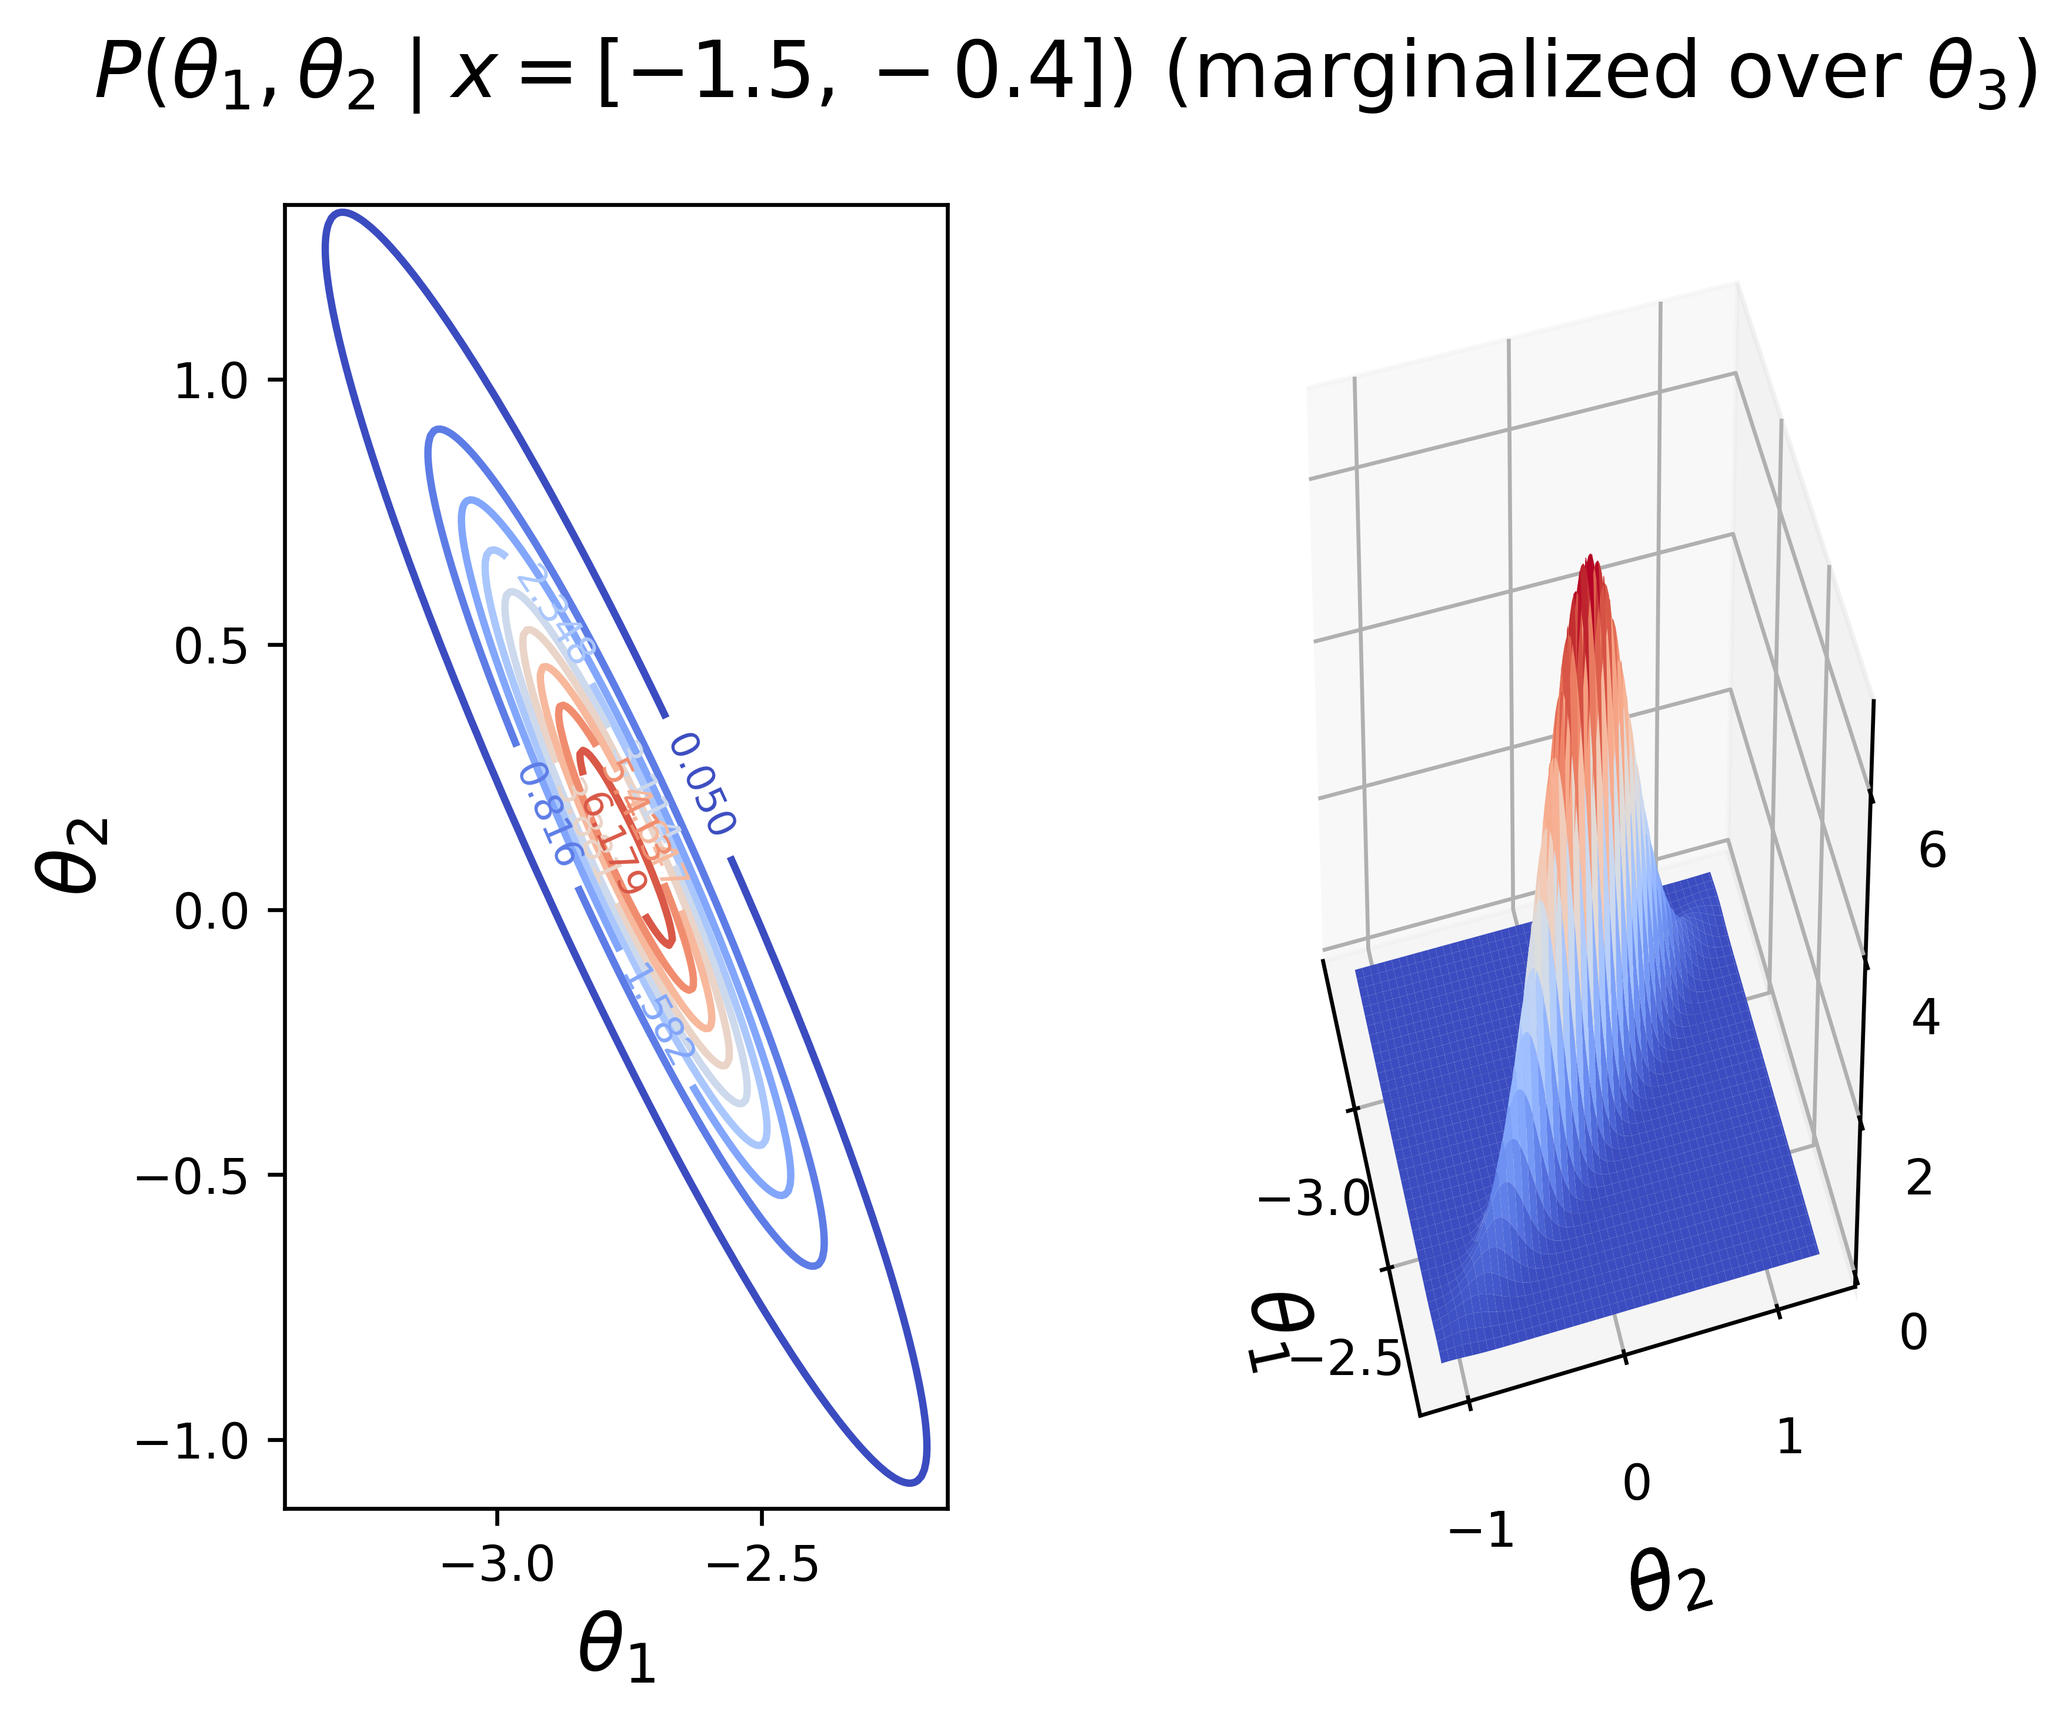
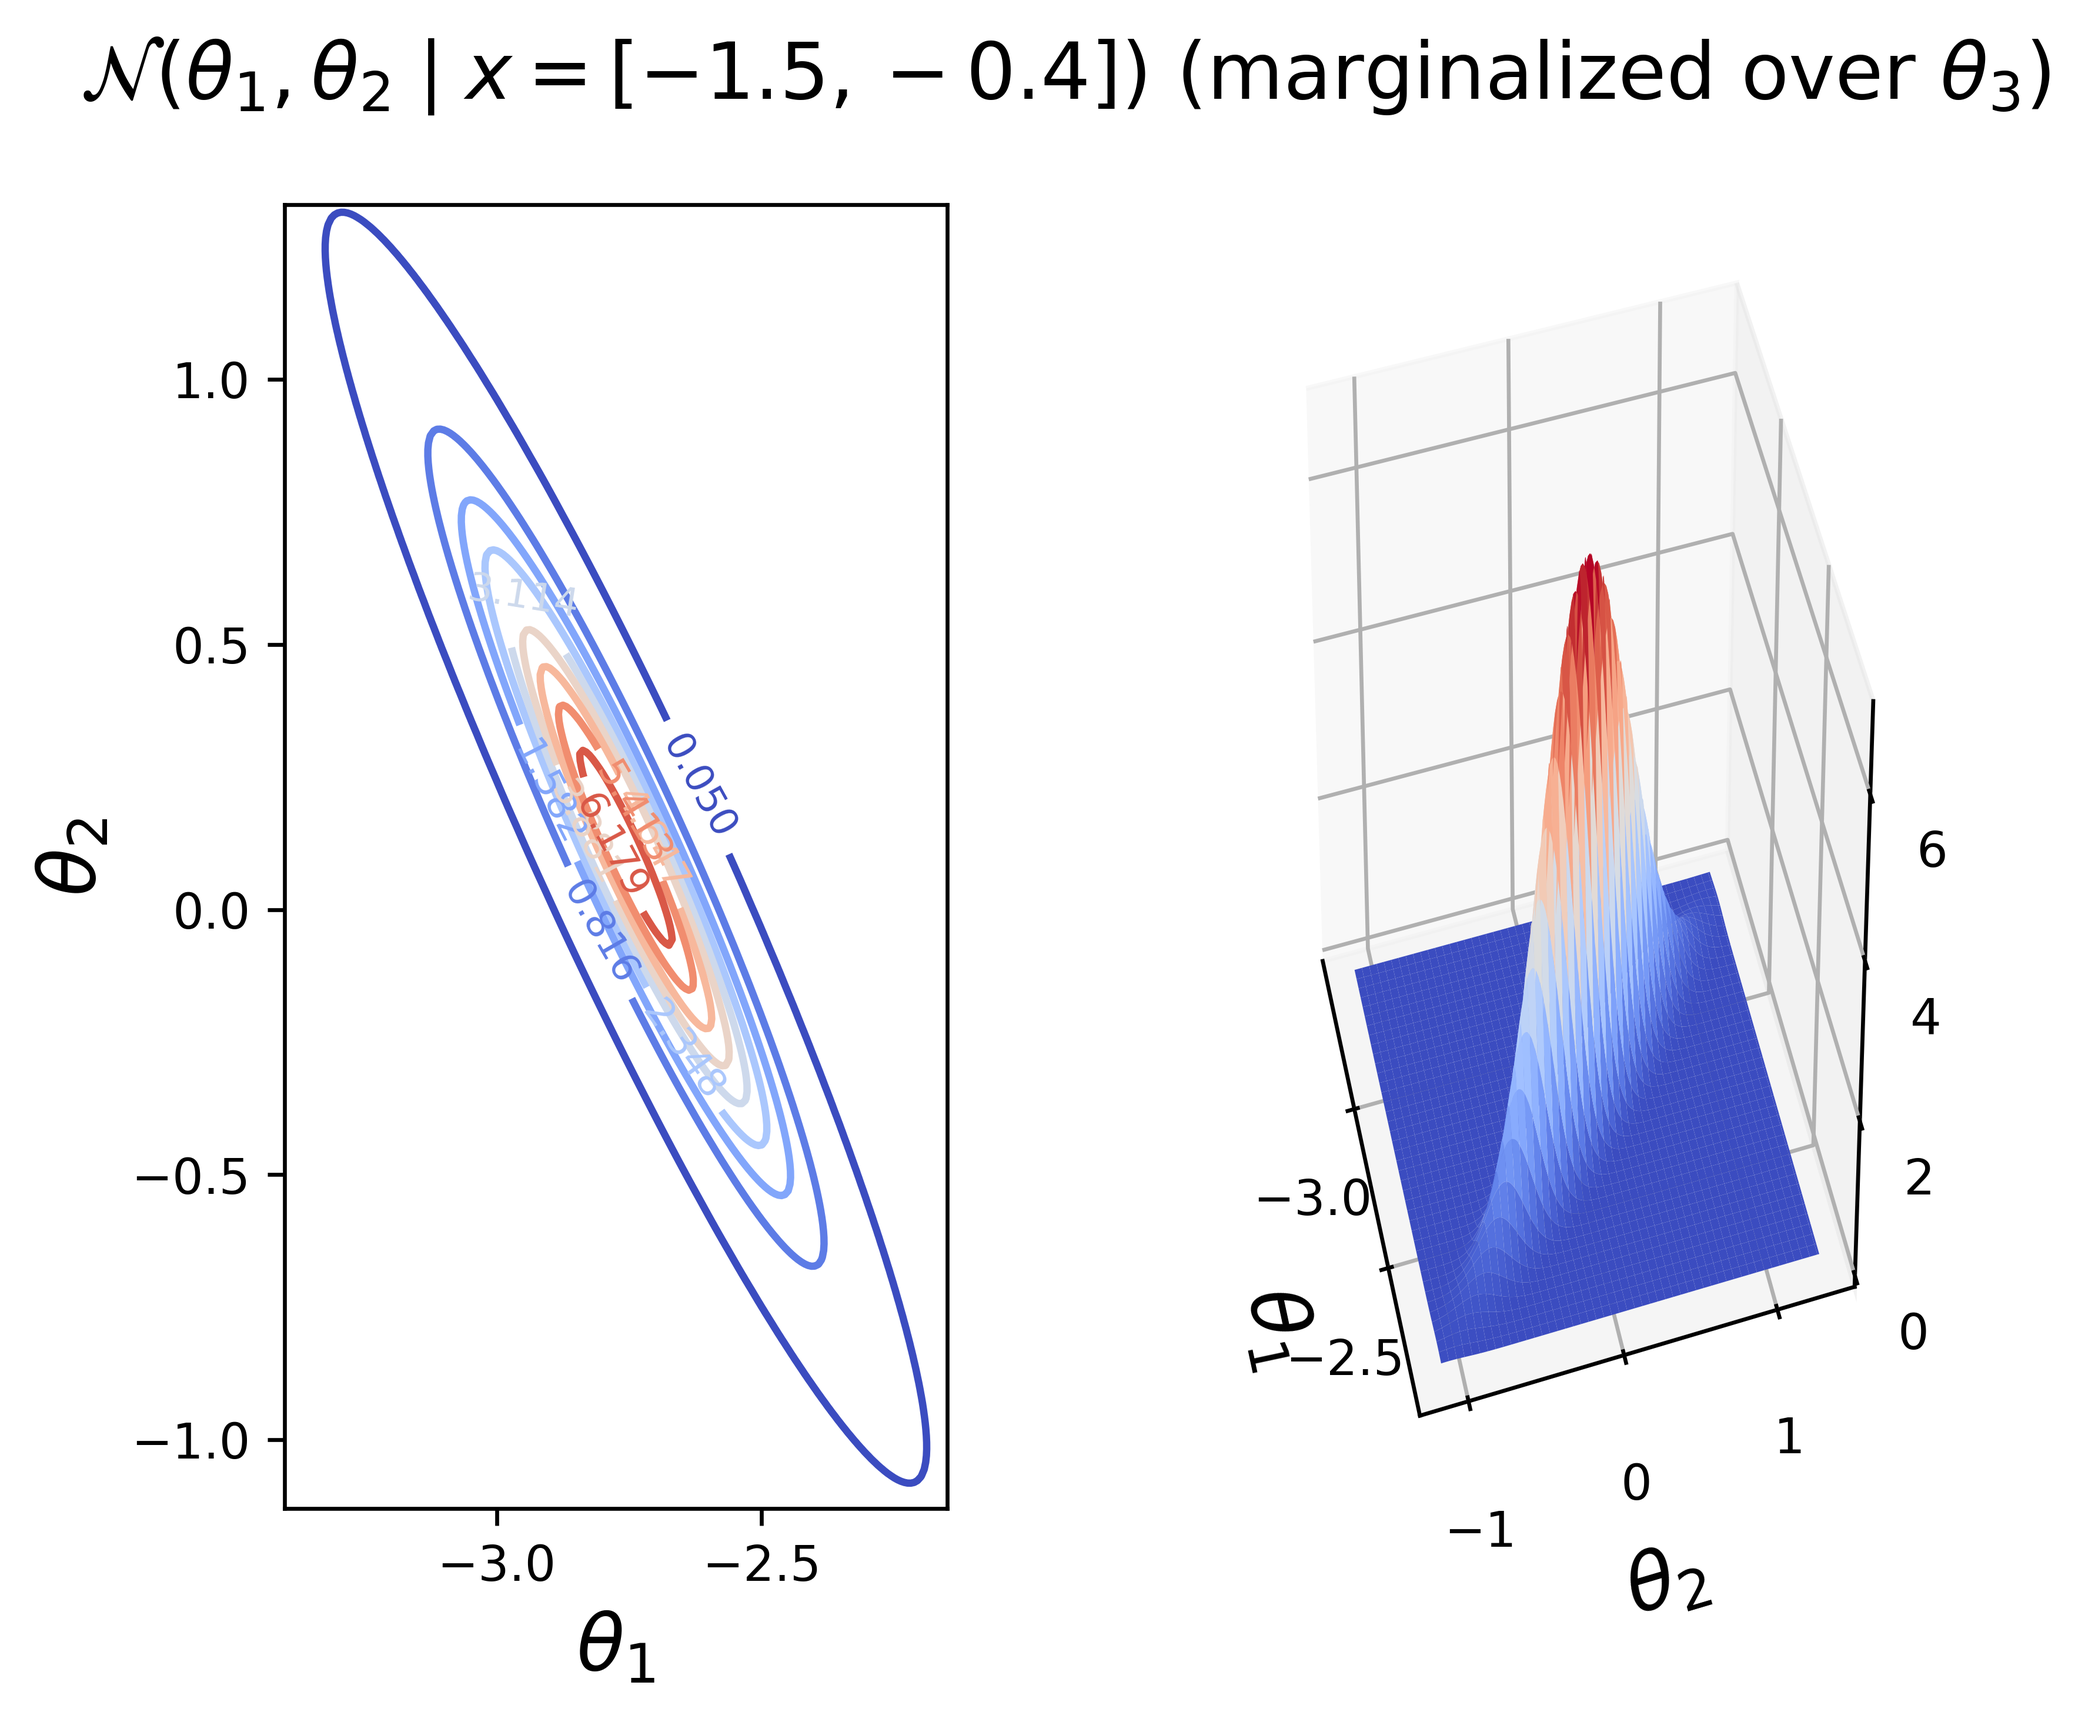
update plots

diff --git a/TeX/contents/theory.tex b/TeX/contents/theory.tex
@@ -162,11 +162,11 @@ estimator. That is, given a particular input, the network returns the complete
 conditional density of the output. However, for the purposes of comparison to
 function approximation methods and since many applications require a single
 estimate of the output, I will outline two possible ways to obtain such an
-estimate $\hat{\theta}_i$ of $\theta_i = f(x_i)$.
+estimate $\hat{\theta}$ of $\theta = f(x)$.
 
 \begin{enumerate}
     \item Stochastic Sampling (STOCH) samples according to the distribution
-    $\hat{\theta}(\mathrm{x}_i) \sim P(\theta \mid \mathrm{x}_i)$:
+    $\hat{\theta}(\mathrm{x}) \sim P(\theta \mid \mathrm{x})$:
     %
     \begin{equation*}
         \hat{\theta} = \sum_{j=1}^M \beta_j \tilde{\mu}_{\theta,j}, \qquad
@@ -174,12 +174,12 @@ estimate $\hat{\theta}_i$ of $\theta_i = f(x_i)$.
     \end{equation*}
     %
     \item Single component least-squares estimation (SLSE) takes
-    $\hat{\theta}(\mathrm{x}_i) = \mathbb{E}\left( \theta \mid \mathrm{x}_i,
-    \omega_j \right)$, where $j = \arg \max_k \mc{N}\left(\mathrm{x} \mid
-    \mu_{\mathrm{x},k}, \Sigma_{\mathrm{xx}_k}\right)$. That is, for a given input,
-    SLSE picks the Gaussian with the highest posterior, and for that Gaussian
-    approximates the output with the least-squares estimator given by that
-    Gaussian alone.
+    $\hat{\theta}(\mathrm{x}) = \mathbb{E}\left( \theta \mid \mathrm{x},
+    \omega_j \right)$, where $j = \arg \max_k (\beta_k \mid \mathrm{x}) = \arg
+    \max_k \mc{N}\left(\mathrm{x} \mid \mu_{\mathrm{x},k},
+    \Sigma_{\mathrm{xx}_k}\right)$. That is, for a given input, SLSE picks the
+    Gaussian with the highest posterior, and for that Gaussian approximates the
+    output with the least-squares estimator given by that Gaussian alone.
 \end{enumerate}
 
 

diff --git a/README.md b/README.md
@@ -23,7 +23,7 @@ top right of the page).
 * This is a Julia implementation of the example provided in 
 Ghahramani, "Solving Inverse Problems Using an EM Approach To Density Estimation."
 
-* The figures below are generated by training a mixture of 301 Gaussian
+* The figures below are generated by training a mixture of 201 Gaussian
   distributions over 10001 data points to represent the inverse kinematics.
   
 * The first figure depicts a test of the algorithm by the end-effector location
@@ -37,7 +37,15 @@ Ghahramani, "Solving Inverse Problems Using an EM Approach To Density Estimation
   
 ![Sample solution](./TeX/figures/sample_solution-v1.png)
 
-* The posterior distribution over θ1 and θ2 given x = [-1.5, -0.4] marginalized
-  over θ3 for visualization purposes may be seen below
+* The figure below shows the posterior of the conditional Gaussian distribution
+  given x = [-1.5, -0.4], that most likely generates x, over θ1 and θ2
+  (marginalized over θ3 for visualization purposes)
 
 ![Marginal distribution](./TeX/figures/marginal.png)
+
+
+* The final figure shows the full posterior of the mixture of conditional
+  Gaussian distributions given x = [-1.5, -0.4] over θ1 and θ2 (marginalized
+  over θ3 for visualization purposes)
+
+![Full marginal distribution](./TeX/figures/full_posterior_marginal.png)
